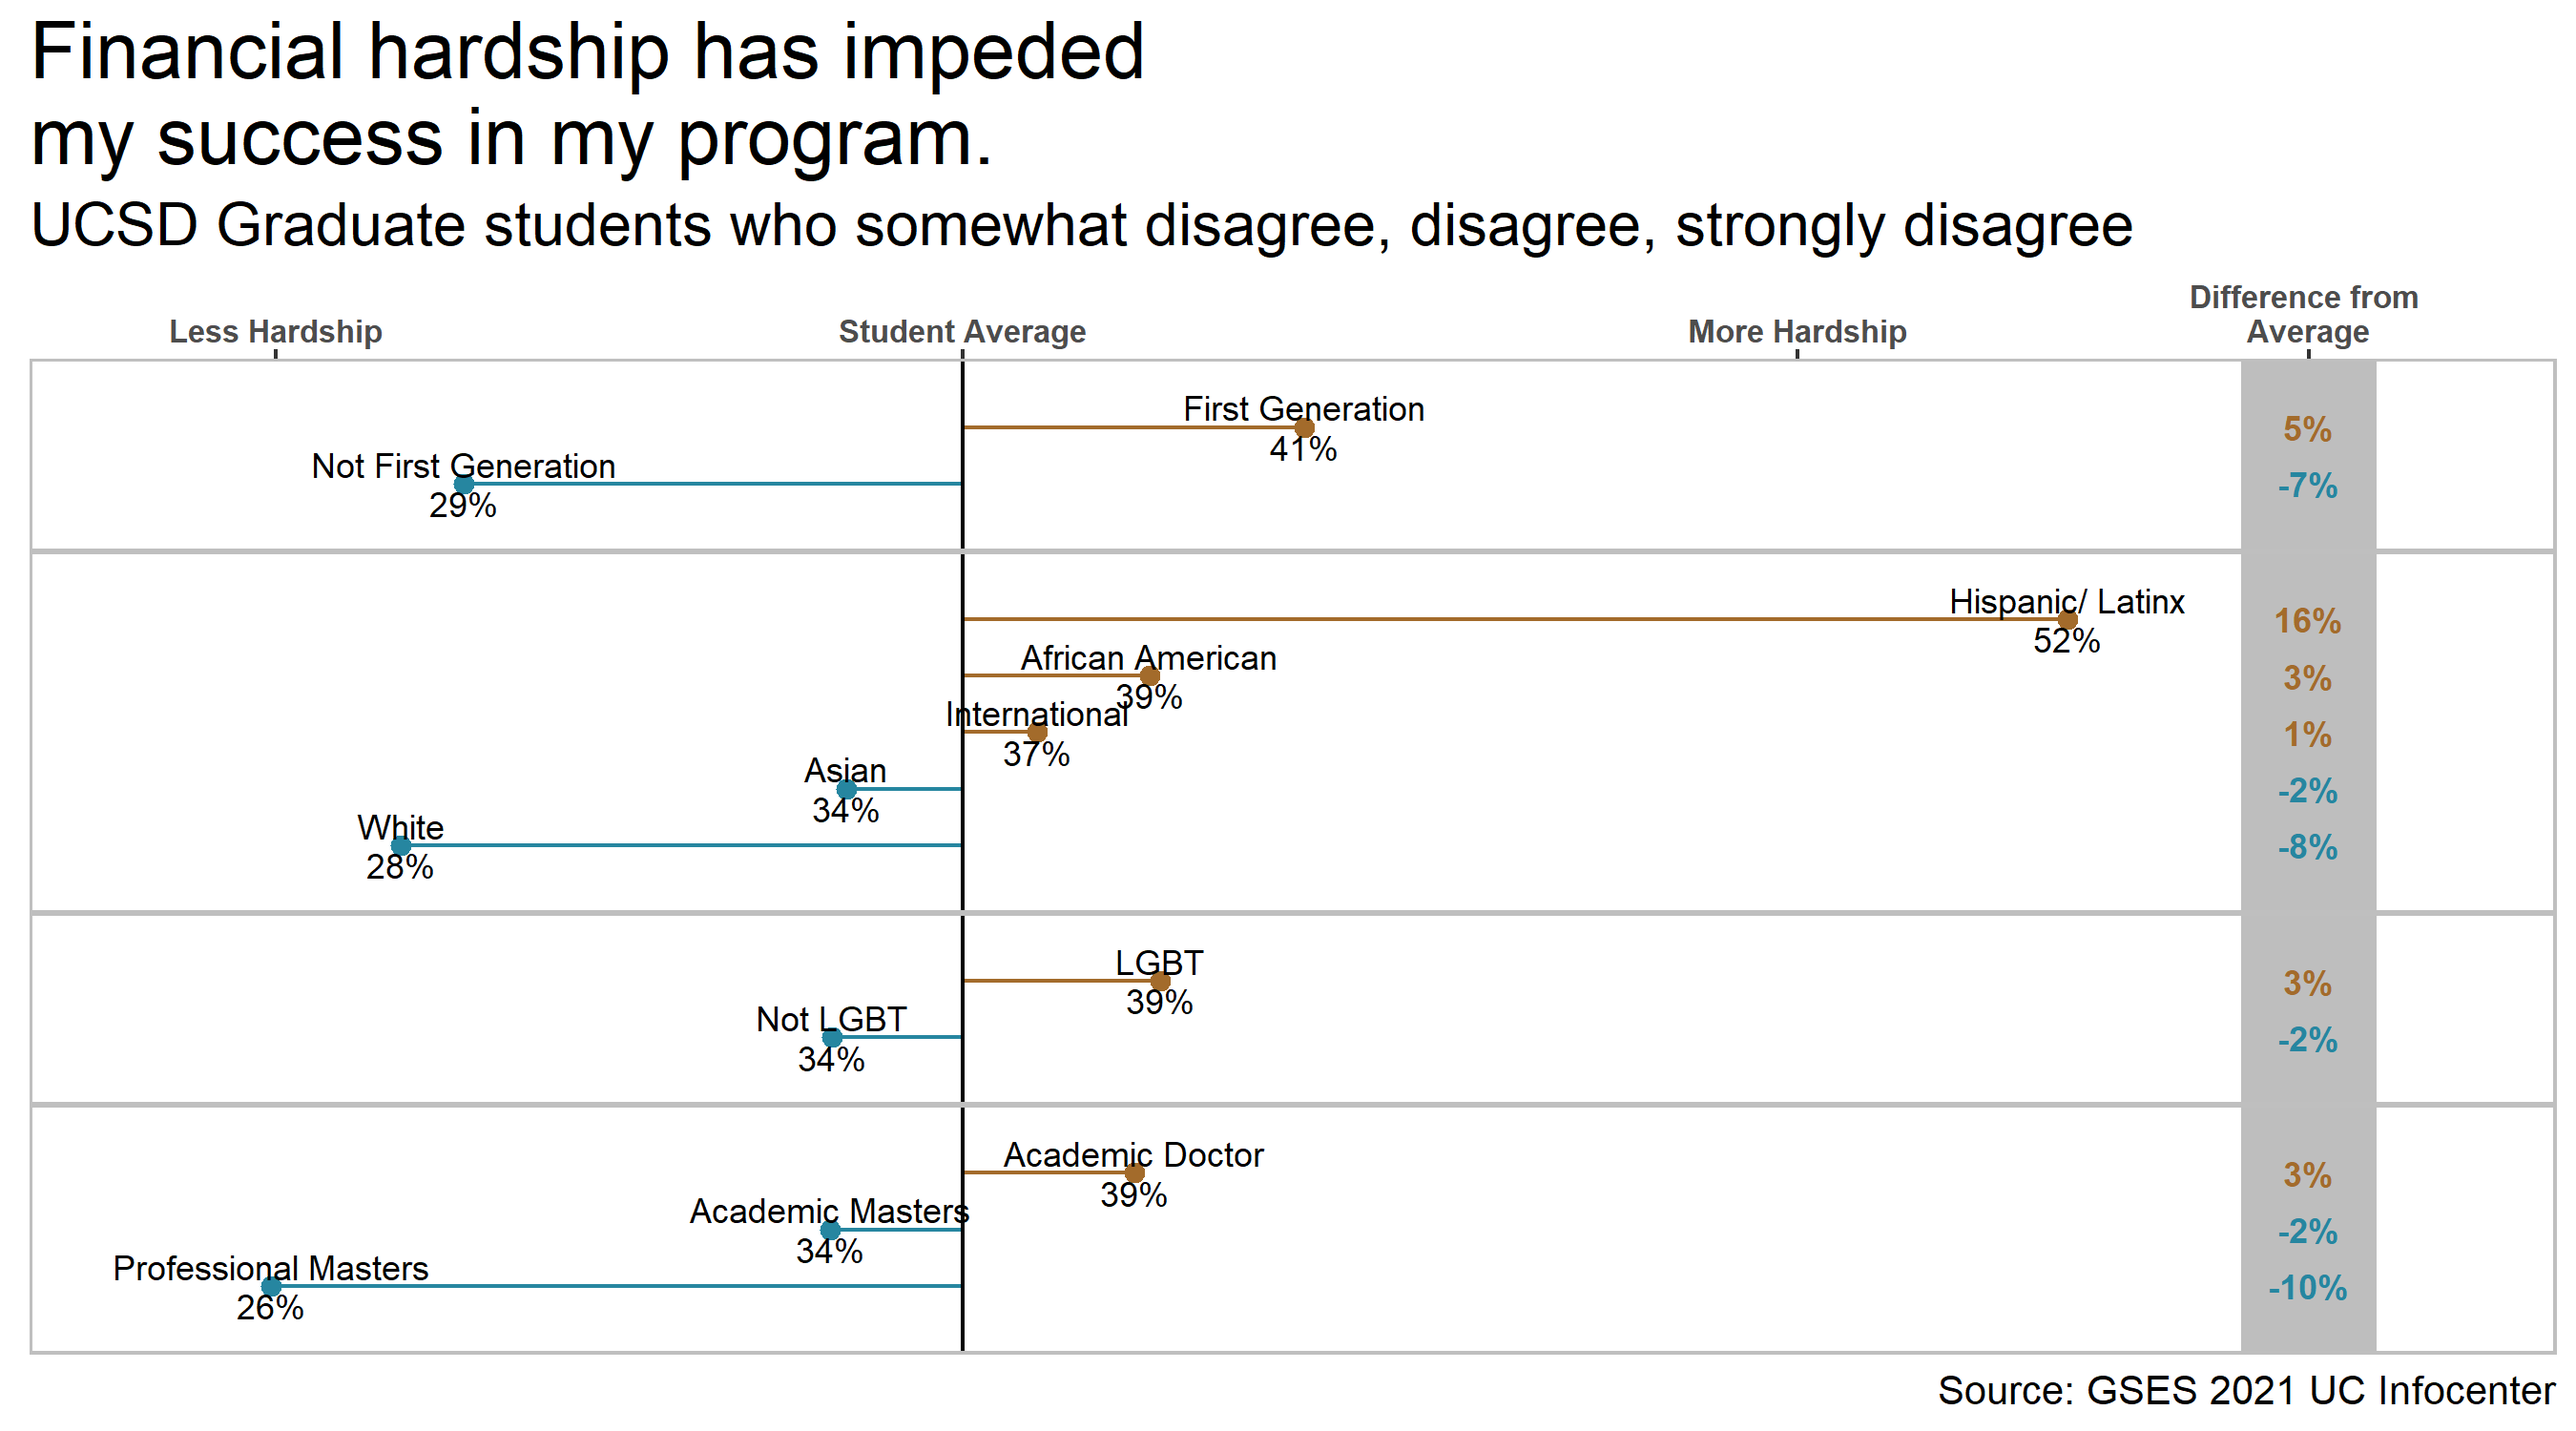
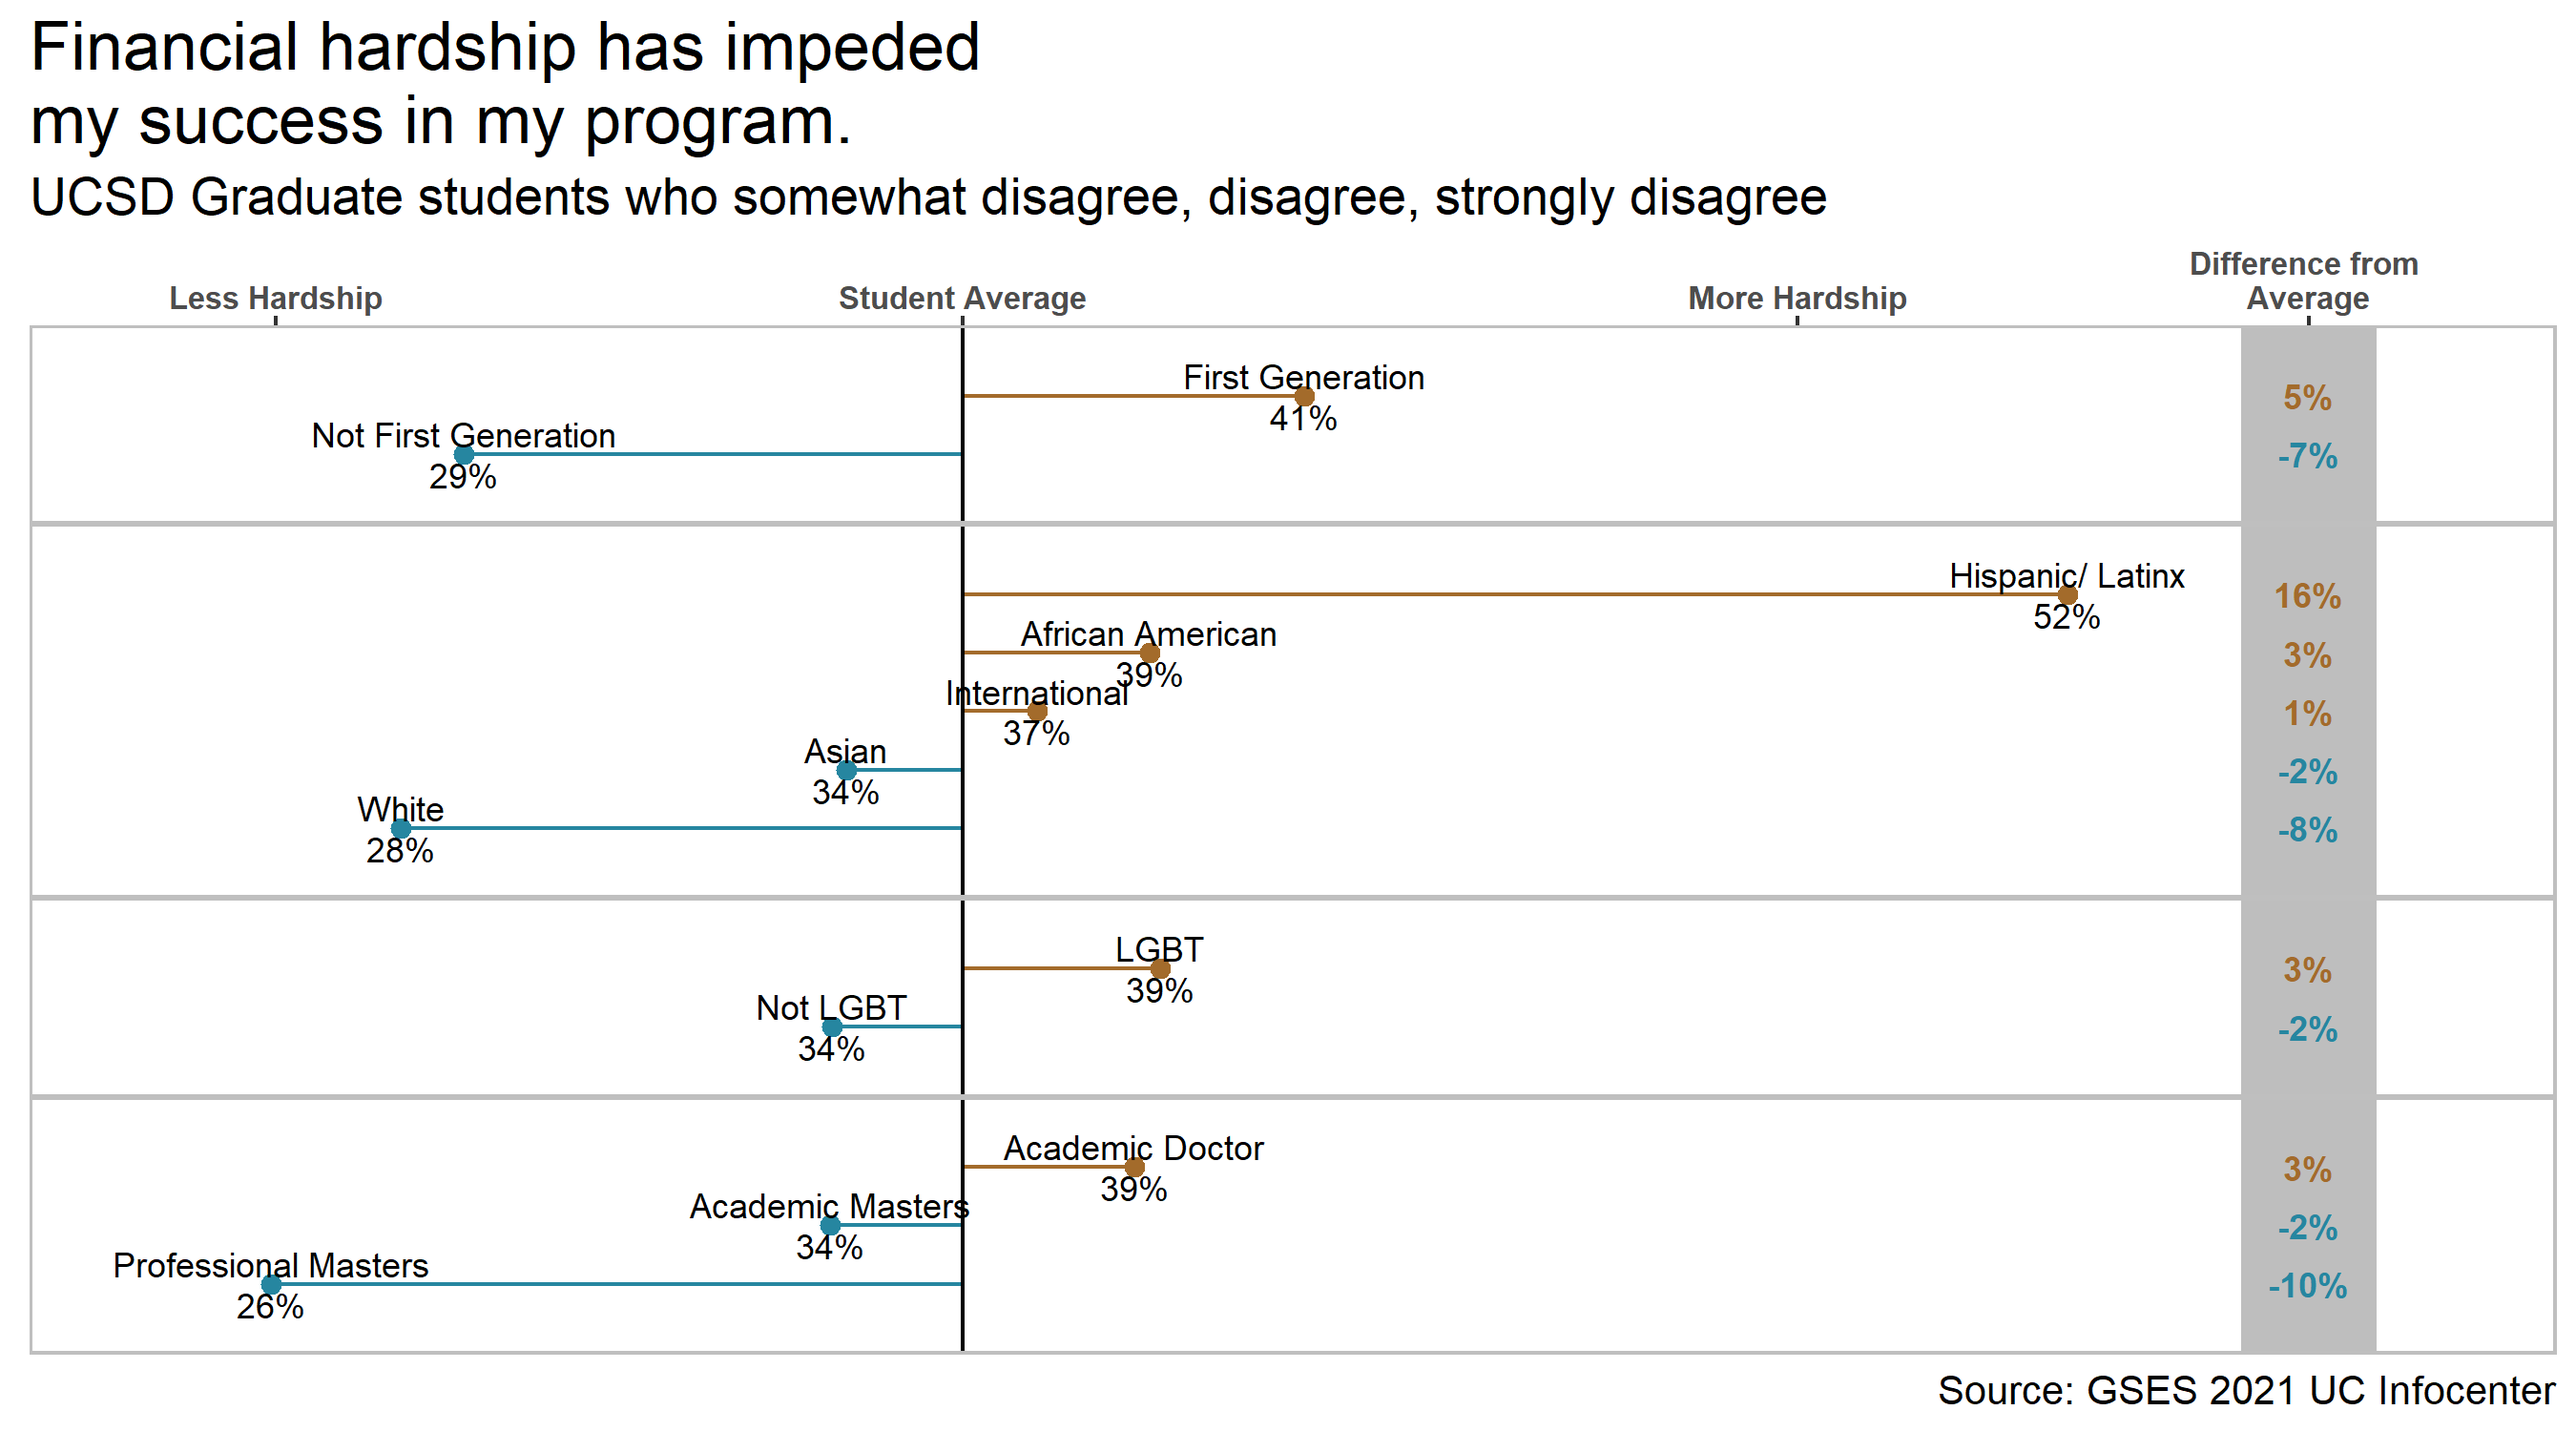
changed html figure width height to make more space between data points in ALFS -need to update other chapter. Also changed ggsave from height=5 to height =5.5

diff --git a/_book/intro.html b/_book/intro.html
@@ -150,7 +150,7 @@ ul.task-list li input[type="checkbox"] {
   <li><a href="#data-sources" id="toc-data-sources" class="nav-link active" data-scroll-target="#data-sources"><span class="toc-section-number">1.1</span>  Data Sources</a>
   <ul class="collapse">
   <li><a href="#sec-UCUES" id="toc-sec-UCUES" class="nav-link" data-scroll-target="#sec-UCUES"><span class="toc-section-number">1.1.1</span>  University of California Undergraduate Experience Survey (UCUES)</a></li>
-  <li><a href="#sec-UCGSES" id="toc-sec-UCGSES" class="nav-link" data-scroll-target="#sec-UCGSES"><span class="toc-section-number">1.1.2</span>  UCGSES University of California Graduate Student Experience Survey</a></li>
+  <li><a href="#sec-UCGSES" id="toc-sec-UCGSES" class="nav-link" data-scroll-target="#sec-UCGSES"><span class="toc-section-number">1.1.2</span>  University of California Graduate Student Experience Survey (UCGSES)</a></li>
   <li><a href="#additional-surveys" id="toc-additional-surveys" class="nav-link" data-scroll-target="#additional-surveys"><span class="toc-section-number">1.1.3</span>  Additional Surveys</a></li>
   </ul></li>
   </ul>
@@ -191,12 +191,23 @@ ul.task-list li input[type="checkbox"] {
 </ul>
 </section>
 <section id="sec-UCGSES" class="level3" data-number="1.1.2">
-<h3 data-number="1.1.2" class="anchored" data-anchor-id="sec-UCGSES"><span class="header-section-number">1.1.2</span> UCGSES University of California Graduate Student Experience Survey</h3>
+<h3 data-number="1.1.2" class="anchored" data-anchor-id="sec-UCGSES"><span class="header-section-number">1.1.2</span> University of California Graduate Student Experience Survey (UCGSES)</h3>
 <p>This UC-wide has been conducted once, in 2021. The data table for all UC campuses is available at the <a href="https://www.universityofcalifornia.edu/about-us/information-center/UCGSES-data-tables">UC Infocenter</a></p>
-<ul>
-<li><p>More on response rates and sample sizes</p></li>
-<li><p>More on group definitions</p></li>
-</ul>
+<p>UC San Diego had a lower than average response rate for graduate students in comparison with the other UC campuses.</p>
+<div class="quarto-figure quarto-figure-center">
+<figure class="figure">
+<p><a href="https://www.ucop.edu/institutional-research-academic-planning/_files/survey-documents-graduate/ucgses-2021-administration-report.pdf"><img src="viz/UCGSES_rr_table.png" class="img-fluid figure-img"></a></p>
+<p></p><figcaption class="figure-caption">UCGSES 2021</figcaption><p></p>
+</figure>
+</div>
+<section id="graduate-student-category-definitions-response-rates" class="level4" data-number="1.1.2.1">
+<h4 data-number="1.1.2.1" class="anchored" data-anchor-id="graduate-student-category-definitions-response-rates"><span class="header-section-number">1.1.2.1</span> Graduate Student Category Definitions, Response Rates</h4>
+<p>This section currently features screenshots from the UCOP Info Center <a href="https://www.universityofcalifornia.edu/about-us/information-center/UCGSES-survey">UCGSES 2021 Survey Dashboard</a> under the “Student Profile” tab and filtered to Campus: UC San Diego and the respective student characteristics.</p>
+<section id="first-generation" class="level5" data-number="1.1.2.1.1">
+<h5 data-number="1.1.2.1.1" class="anchored" data-anchor-id="first-generation"><span class="header-section-number">1.1.2.1.1</span> First Generation</h5>
+<p>Future versions of this document will include population figures f <img src="viz/intro/ucgses_first_gen.png" class="img-fluid" alt="First Generation Graduate Students"></p>
+</section>
+</section>
 </section>
 <section id="additional-surveys" class="level3" data-number="1.1.3">
 <h3 data-number="1.1.3" class="anchored" data-anchor-id="additional-surveys"><span class="header-section-number">1.1.3</span> Additional Surveys</h3>
